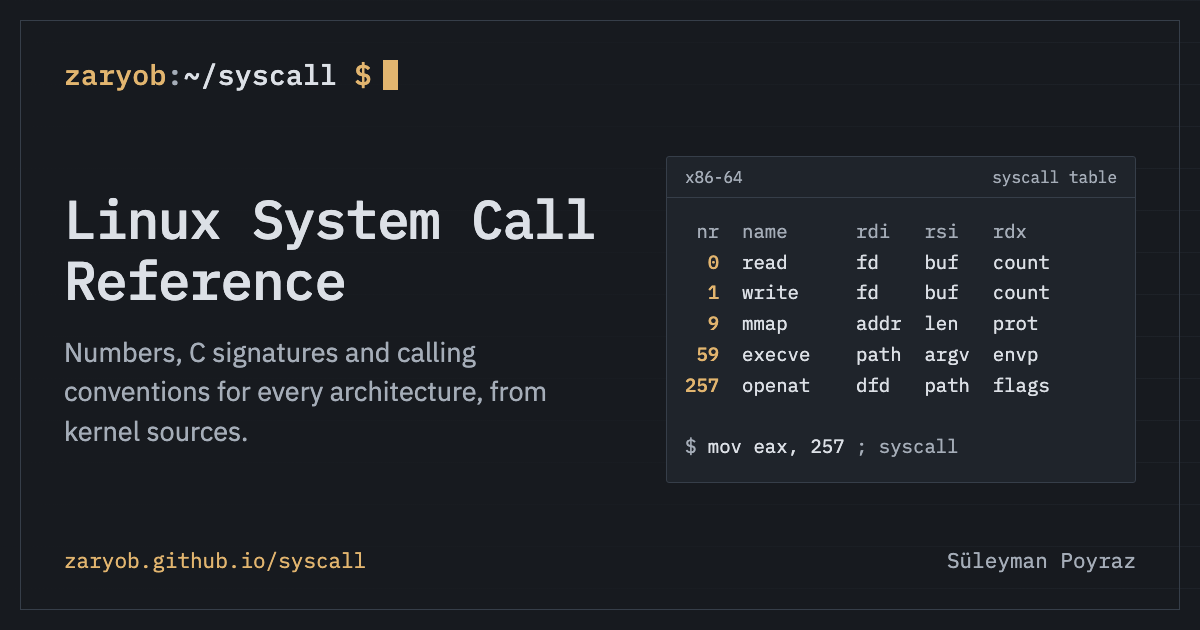
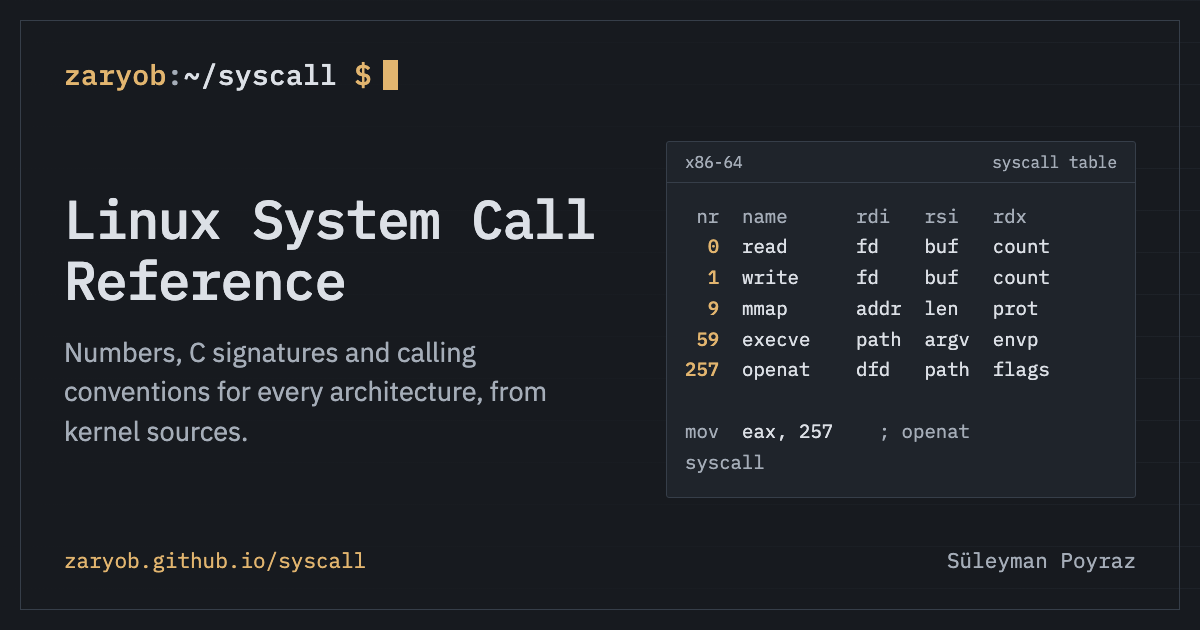
Lay out the landing introduction as the console hero with a linked x86-64 panel

diff --git a/public/index.html b/public/index.html
@@ -8,12 +8,28 @@ title: Linux System Call Reference
 {% assign latest_table = '/data/' | append: latest_path | append: '/x64.json' %}
 {% assign latest_sources = '/data/' | append: latest_path | append: '/sources.json' %}
   <div id="library">
-    <section class="introduction" aria-labelledby="title">
-      <p class="eyebrow"><span data-i18n="~/syscall · the GNU/Linux programmer’s bookshelf">~/syscall · the GNU/Linux programmer’s bookshelf</span></p>
-      <h1 id="title"><span data-i18n="Linux System Call Reference">Linux System Call Reference</span></h1>
-      <p class="lede"><span data-i18n="The small interface between your program and the kernel.">The small interface between your program and the kernel.</span></p>
-      <p><span data-i18n="System call numbers, C signatures, and calling conventions, collected directly from Linux source.">System call numbers, C signatures, and calling conventions, collected directly from Linux source.</span><br class="wide-only"> <span data-i18n="Choose an architecture, look up a call, and follow it back to the kernel.">Choose an architecture, look up a call, and follow it back to the kernel.</span></p>
-      <p class="index-line"><a href="?arch=x64#reference"><strong><span data-i18n="x86-64 Table →">x86-64 Table →</span></strong></a><span aria-hidden="true"> · </span><a href="?arch=arm64#reference"><strong><span data-i18n="ARM64 Table →">ARM64 Table →</span></strong></a><span aria-hidden="true"> · </span><a href="#architectures"><span data-i18n="All architectures ↓">All architectures ↓</span></a><span aria-hidden="true"> · </span><a href="#conventions"><span data-i18n="Calling conventions">Calling conventions</span></a><span aria-hidden="true"> · </span><a href="#sources"><span data-i18n="How this reference is made">How this reference is made</span></a></p>
+    <section class="console-hero console-hero--syscall" aria-labelledby="title">
+      <div class="console-hero__inner">
+        <p class="console-hero__prompt" aria-hidden="true"><b>zaryob</b><i>:</i>~/syscall <b>$</b><span class="console-hero__cursor"></span></p>
+        <div class="console-hero__copy">
+          <h1 id="title" class="console-hero__title"><span data-i18n="Linux System Call Reference">Linux System Call Reference</span></h1>
+          <p class="console-hero__lead"><span data-i18n="The small interface between your program and the kernel.">The small interface between your program and the kernel.</span></p>
+          <p class="console-hero__more"><span data-i18n="System call numbers, C signatures, and calling conventions, collected directly from Linux source.">System call numbers, C signatures, and calling conventions, collected directly from Linux source.</span><br class="wide-only"> <span data-i18n="Choose an architecture, look up a call, and follow it back to the kernel.">Choose an architecture, look up a call, and follow it back to the kernel.</span></p>
+          <p class="index-line"><a href="?arch=x64#reference"><strong><span data-i18n="x86-64 Table →">x86-64 Table →</span></strong></a><span aria-hidden="true"> · </span><a href="?arch=arm64#reference"><strong><span data-i18n="ARM64 Table →">ARM64 Table →</span></strong></a><span aria-hidden="true"> · </span><a href="#architectures"><span data-i18n="All architectures ↓">All architectures ↓</span></a><span aria-hidden="true"> · </span><a href="#conventions"><span data-i18n="Calling conventions">Calling conventions</span></a><span aria-hidden="true"> · </span><a href="#sources"><span data-i18n="How this reference is made">How this reference is made</span></a></p>
+        </div>
+        <figure class="console-hero__panel">
+          <figcaption class="console-hero__panel-head"><span>x86-64</span><a href="{{ '/arch/x64/' | relative_url }}">syscall table →</a></figcaption>
+<div class="console-hero__screen"><span class="h-dim"> nr  name    rdi      rsi      rdx</span>
+<span class="h-num">  0</span>  <a href="{{ '/call/read/' | relative_url }}">read</a>    fd       buf      count
+<span class="h-num">  1</span>  <a href="{{ '/call/write/' | relative_url }}">write</a>   fd       buf      count
+<span class="h-num">  9</span>  <a href="{{ '/call/mmap/' | relative_url }}">mmap</a>    addr     len      prot
+<span class="h-num"> 59</span>  <a href="{{ '/call/execve/' | relative_url }}">execve</a>  filename argv     envp
+<span class="h-num">257</span>  <a href="{{ '/call/openat/' | relative_url }}">openat</a>  dfd      filename flags
+
+<span class="h-dim">mov</span>  eax, 257     <span class="h-dim">; openat</span>
+<span class="h-dim">syscall</span></div>
+        </figure>
+      </div>
     </section>
 
     <section id="architectures" tabindex="-1" aria-labelledby="architectures-title">

diff --git a/public/assets/console/theme.css b/public/assets/console/theme.css
@@ -152,6 +152,34 @@ body.console-site, body.pin-atlas-site { margin: 0; background: var(--paper); co
 .console-sr-only { position: absolute; width: 1px; height: 1px; margin: -1px; padding: 0; overflow: hidden; clip: rect(0,0,0,0); white-space: nowrap; border: 0; }
 .console-site .skip-link { position: fixed; top: -100px; left: 16px; z-index: 50; background: var(--surface); color: var(--ink); padding: 8px 14px; transform: none; }
 .console-site .skip-link:focus { top: 10px; }
+/* Landing hero shared by the five sites: prompt line, title and lead on the left, a small terminal panel on the right. */
+.console-hero { --hero-green: #37643b; --hero-red: #a02d35; --hero-blue: #2f5f8f; border-bottom: 1px solid var(--line); }
+:root[data-theme="dark"] .console-hero { --hero-green: #a7ca9b; --hero-red: #f2a0a3; --hero-blue: #9cc0e4; }
+@media (prefers-color-scheme: dark) { :root:not([data-theme]) .console-hero { --hero-green: #a7ca9b; --hero-red: #f2a0a3; --hero-blue: #9cc0e4; } }
+.console-hero { background: repeating-linear-gradient(to bottom, transparent 0 41px, color-mix(in srgb, var(--line) 35%, transparent) 41px 42px), var(--paper); }
+.console-hero__inner { max-width: var(--shell-width); margin: 0 auto; padding: clamp(28px, 5vw, 64px) var(--gutter); display: grid; grid-template-columns: minmax(0, 1fr) minmax(0, 31rem); gap: 28px 56px; align-items: center; }
+.console-hero__prompt { grid-column: 1 / -1; margin: 0; font: 500 var(--text-h4)/1.4 var(--font-mono); color: var(--ink); overflow-wrap: anywhere; }
+.console-hero__prompt b { color: var(--accent); font-weight: 500; }
+.console-hero__prompt i { color: var(--muted); font-style: normal; }
+.console-hero__cursor { display: inline-block; width: .55em; height: 1.1em; margin-left: .45em; vertical-align: -.18em; background: var(--accent); animation: console-hero-blink 1.1s steps(1) infinite; }
+@keyframes console-hero-blink { 50% { opacity: 0; } }
+@media (prefers-reduced-motion: reduce) { .console-hero__cursor { animation: none; } }
+.console-hero__copy { min-width: 0; }
+.console-site .console-hero__title, .pin-atlas-site .console-hero__title, .console-hero__title { margin: 0; font: 500 clamp(2.1rem, 1.4rem + 3vw, 3.75rem)/1.1 var(--font-mono); letter-spacing: -.02em; color: var(--ink); text-wrap: balance; overflow-wrap: anywhere; }
+.console-hero__lead { margin: 18px 0 0; max-width: 36rem; font: 400 var(--text-prose)/1.6 var(--font-prose); color: var(--muted); }
+.console-hero__actions { display: flex; flex-wrap: wrap; gap: 12px; margin-top: 28px; }
+.console-hero__panel { margin: 0; min-width: 0; border: 1px solid var(--line); border-radius: 3px; background: var(--surface); overflow: hidden; }
+.console-hero__panel-head { display: flex; justify-content: space-between; gap: 12px; padding: 9px 16px; border-bottom: 1px solid var(--line); color: var(--muted); font: 400 var(--text-xs)/1.5 var(--font-mono); }
+.console-hero__screen { margin: 0; padding: 16px 18px 18px; overflow-x: auto; white-space: pre; color: var(--ink); font: 400 var(--text-sm)/1.75 var(--font-mono); }
+.console-hero__screen a { color: var(--accent); text-decoration: none; }
+.console-hero__screen a:hover { text-decoration: underline; }
+.console-hero__screen :is(.h-dir, .h-num) { color: var(--accent); }
+.console-hero__screen .h-dim { color: var(--muted); }
+.console-hero__screen .h-ok { color: var(--hero-green); }
+.console-hero__screen .h-hot { color: var(--hero-red); }
+.console-hero__screen .h-bus { color: var(--hero-blue); }
+@media (max-width: 960px) { .console-hero__inner { grid-template-columns: minmax(0, 1fr); } }
+@media print { .console-hero__panel, .console-hero__cursor { display: none; } }
 .console-suite { border-top: 1px solid var(--line); margin-top: 48px; font-size: var(--text-sm); }
 .console-suite + .console-footer, .console-suite + footer { margin-top: 0; }
 .console-suite__inner { max-width: var(--shell-width); margin: 0 auto; padding: 24px var(--gutter) 20px; display: grid; grid-template-columns: 1fr auto; gap: 12px 36px; align-items: end; }

diff --git a/public/assets/console/syscall.css b/public/assets/console/syscall.css
@@ -389,3 +389,9 @@
 }
 /* Symbol names (EOWNERDEAD, SIGHUP) stay on one line; the table scrolls instead. */
 .console-syscall .abi-table tbody th > code { white-space: nowrap; overflow-wrap: normal; }
+/* Landing hero (shared console-hero component) */
+.console-syscall .console-hero__more { margin: 14px 0 0; max-width: 62ch; font-size: var(--text-base); }
+.console-syscall .console-hero .index-line { margin: 20px 0 0; font-size: var(--text-sm); }
+.console-syscall .console-hero__panel-head a { color: var(--accent); }
+.console-syscall .console-hero__inner { padding-inline: 0; }
+.console-syscall .console-hero .console-hero__lead { margin: 16px 0 0; }
